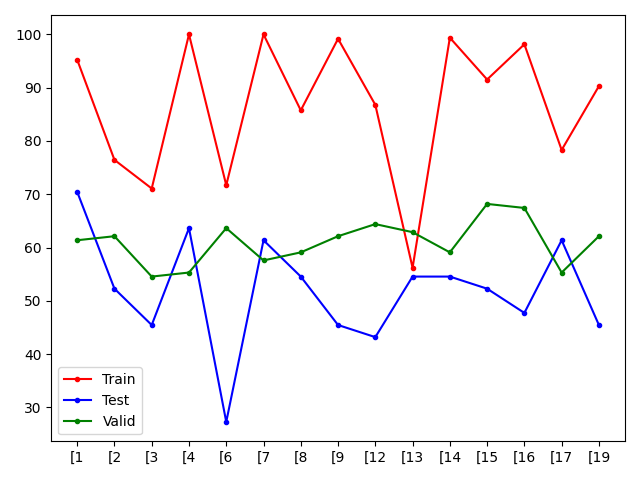
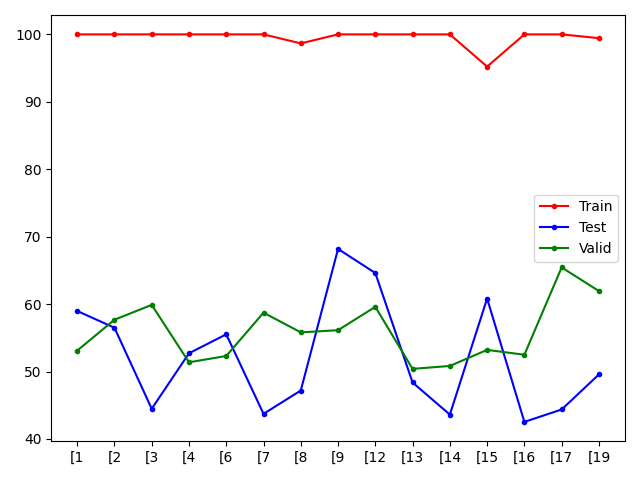
Validation check added

diff --git a/models/cnn_model.py b/models/cnn_model.py
@@ -7,43 +7,41 @@ class Net(nn.Module):
     def __init__(self, config, kernel_size):
         super(Net, self).__init__()
         k1 = kernel_size
-        self.conv_layer1 = nn.Sequential(nn.Conv2d(config.n_channels, 60, kernel_size=(k1,kernel_size)),
+        self.conv_layer1 = nn.Sequential(nn.Conv2d(1, 60, kernel_size=(k1,kernel_size)),
                            nn.ReLU(inplace=True))
-        h_shape = config.freq_cut
-        w_shape = config.nTimeBins
+#        h_shape = config.freq_cut
+ #       w_shape = config.nTimeBins
 
-#        h_shape = config.window_len
- #       w_shape = config.n_channels
+        h_shape = config.window_len
+        w_shape = config.n_channels
         h_shape = (h_shape-k1)+1
         w_shape = (w_shape-kernel_size)+1
 #        print(f'H: {h_shape} W:{w_shape}')
 
         self.conv_layer2 = nn.Sequential(nn.Conv2d(60, 80, kernel_size=(k1,kernel_size)),
                            nn.ReLU(inplace=True))
-        h_shape = (h_shape-k1)//1 + 1
-        w_shape = (w_shape-kernel_size)//1 + 1
+#nn.AvgPool2d(2))
+        h_shape = ((h_shape-k1) + 1)
+        w_shape = ((w_shape-kernel_size) + 1)
 #        print(f'H: {h_shape} W:{w_shape}')
 
-        self.conv_layer3 = nn.Sequential(nn.Conv2d(80, 120, kernel_size=(k1,kernel_size)),
+        self.conv_layer3 = nn.Sequential(nn.Conv2d(80, 80, kernel_size=(k1,kernel_size)),
                            nn.ReLU(inplace=True))
-        h_shape = (h_shape-k1) + 1
-        w_shape = (w_shape-kernel_size) + 1
-#        print(f'H: {h_shape} W:{w_shape}')
+#                           nn.Dropout(0.2), nn.AvgPool2d(2))
+        h_shape = ((h_shape-k1) + 1)
+        w_shape = ((w_shape-kernel_size) + 1)
 
-        self.conv_layer4 = nn.Sequential(nn.Conv2d(120, 120, kernel_size=(k1,kernel_size)),
-                           nn.BatchNorm2d(120),
+        self.conv_layer4 = nn.Sequential(nn.Conv2d(80, 80, kernel_size=(k1,kernel_size)),
+                           nn.BatchNorm2d(80),
                            nn.ReLU(inplace=True))
-        h_shape = (h_shape-k1) + 1
-        w_shape = (w_shape-kernel_size) + 1
-#        print(f'H: {h_shape} W:{w_shape}')
+#                           nn.Dropout(0.2),nn.AvgPool2d(2))
+        h_shape = ((h_shape-k1) + 1)
+        w_shape = ((w_shape-kernel_size) + 1)
 
-
-
-        self.fc1 = nn.Linear(120 * h_shape * w_shape, 40)
-        self.fc2 = nn.Linear(40, config.n_classes)
+        self.fc1 = nn.Linear(80 * h_shape * w_shape, config.n_classes)
+#        self.fc2 = nn.Linear(40, config.n_classes)
         self.relu    = nn.ReLU(inplace=True)
-        self.sigmoid = nn.Sigmoid()
-        self.dropout = nn.Dropout(0.2)
+        self.lsf     = nn.LogSoftmax(dim=1)
 
     def forward(self, x):
         x   = self.conv_layer1(x)
@@ -51,10 +49,6 @@ class Net(nn.Module):
         x   = self.conv_layer3(x)
         x   = self.conv_layer4(x)
         x   = x.reshape(x.shape[0],x.shape[1]*x.shape[2]*x.shape[3])
-#        print(x.shape)
- #       input('enter')
-        x     = self.relu(self.fc1(x))
-#        out   = self.sigmoid(self.fc2(x))
-        out = F.log_softmax(self.fc2(x), dim=1)
+        out = self.lsf(self.fc1(x))
         return out
 

diff --git a/utils/utils.py b/utils/utils.py
@@ -31,14 +31,15 @@ def test(model, dataloader, config):
     model.eval()
     correct = 0
     total = 0
-    gauss_obj = GaussianFourierFeatureTransform(1, config.mapping_size, 10)
+    if config.apply_gauss:
+       gauss_obj = GaussianFourierFeatureTransform(1, config.mapping_size, 10)
     with torch.no_grad():
         for batch_idx, (inputs, targets, subjects) in enumerate(dataloader):
             inputs, targets = inputs.to(config.device), targets.to(config.device)
             if config.apply_gauss:
                  inputs = gauss_obj(inputs.reshape(-1,1,config.window_len,config.n_channels))
-#            else:
- #                inputs = inputs.permute(0,2,1)
+            else:
+                 inputs = inputs.permute(0,2,1)
 #                 inputs = inputs.reshape(-1,1,config.window_len,config.n_channels)
 
             if config.model_type == 'capsnet':
@@ -115,20 +116,22 @@ def model_loader(config, kernel_size):
     elif config.model_type == 'brainC':
        return ShallowFBCSPNet(in_chans=config.n_channels,n_classes=config.n_classes,input_window_samples=config.window_len,final_conv_length='auto')
 
-def data_loader(batch_size, num_workers, stft):
+def data_loader(batch_size, num_workers, stft, valid_check):
     if stft:
        name_str = '2d'
     else:
        name_str = '1d'
     trainset = HDF5Dataset('./data/train_'+name_str+'.h5')
-    validset = HDF5Dataset('./data/valid_'+name_str+'.h5')
+    if valid_check:
+       validset = HDF5Dataset('./data/valid_'+name_str+'.h5')
     testset  = HDF5Dataset('./data/test_'+name_str+'.h5')
 
     trainloader = torch.utils.data.DataLoader(trainset, batch_size=batch_size, shuffle=True,  num_workers=num_workers, pin_memory=False)
-    validloader = torch.utils.data.DataLoader(validset, batch_size=batch_size, shuffle=True, num_workers=num_workers, pin_memory=False)
     testloader  = torch.utils.data.DataLoader(testset,  batch_size=batch_size, shuffle=True, num_workers=num_workers, pin_memory=False)
-
-    return trainloader, validloader, testloader
+    if valid_check:
+       validloader = torch.utils.data.DataLoader(validset, batch_size=batch_size, shuffle=True, num_workers=num_workers, pin_memory=False)
+       return trainloader, validloader, testloader
+    return trainloader, None, testloader
 
 
 def progress_bar(current, total, msg=None):

diff --git a/main.py b/main.py
@@ -24,11 +24,14 @@ parser.add_argument('--stft', action='store_true', default=False, help='Apply ST
 args = parser.parse_args()
 
 best_acc = 0
-trainloader, validloader, _ = data_loader(args.batch_size, args.num_workers, args.stft)
 config = Config(args.model_type)
 config.device = args.device
 config.stft=args.stft
-gauss_obj = GaussianFourierFeatureTransform(1, config.mapping_size, 10)
+
+trainloader, validloader, _ = data_loader(args.batch_size, args.num_workers, args.stft, config.apply_valid_set)
+
+if config.apply_gauss:
+   gauss_obj = GaussianFourierFeatureTransform(1, config.mapping_size, 10)
 net = model_loader(config,args.kernel_size)
 #net.load_state_dict(torch.load('./checkpoint/Net.pth',map_location=args.device))
 #net = torch.nn.DataParallel(net)
@@ -67,8 +70,8 @@ def train():
         inputs, targets = inputs.to(args.device), targets.to(args.device)
         if config.apply_gauss:
            inputs = gauss_obj(inputs.reshape(-1,1,config.window_len,config.n_channels))
-#        if config.model_type == 'eegnet':
- #          inputs = inputs.permute(0,2,1)
+        if config.model_type == 'eegnet':
+           inputs = inputs.permute(0,2,1)
 #           inputs = inputs.unsqueeze(1)
  #          inputs = inputs.reshape(-1,1,config.window_len,config.n_channels)
         optimizer.zero_grad()
@@ -94,12 +97,14 @@ def train():
 
         progress_bar(batch_idx, len(trainloader), 'Loss: %.3f | Acc: %.3f%% (%d/%d)'
                % (train_loss/(batch_idx+1), 100.*correct/total, correct, total))
+    return (correct/total)
 
 for epoch in range(1,args.n_epochs):
     print('\nEpoch: {}/{}'.format(epoch,args.n_epochs))
-    train()
+    clean_acc = train()
 
-    clean_acc,_ = test(net, validloader, config)
+    if config.apply_valid_set:
+       clean_acc,_ = test(net, validloader, config)
     if epoch == 1:
        best_acc = clean_acc
     if (clean_acc >= best_acc):

diff --git a/test_performance.py b/test_performance.py
@@ -14,9 +14,9 @@ parser.add_argument('--stft', action='store_true', default=False, help='Apply ST
 args = parser.parse_args()
 
 best_acc = 0
-trainloader, validloader, testloader = data_loader(args.batch_size, args.num_workers, args.stft)
 
 config = Config(args.model_type)
+trainloader, validloader, testloader = data_loader(args.batch_size, args.num_workers, args.stft, config.apply_valid_set)
 config.device=args.device
 net = model_loader(config, args.kernel_size)
 net = net.to(args.device)
@@ -32,14 +32,18 @@ cudnn.benchmark = True
 print("Test Performance:")
 test_acc, target_test  = test(net, testloader, config)
 
-print("Validation Performance:")
-valid_acc, target_valid = test(net, validloader, config)
+if config.apply_valid_set:
+   print("Validation Performance:")
+   valid_acc, target_valid = test(net, validloader, config)
 
 print("Train Performance:")
 train_acc, _ = test(net, trainloader, config)
 
 header_name = 'Name,Acc,Target'
-data = [['Train', train_acc, 0], ['Test', test_acc, target_test], ['Valid', valid_acc, target_valid] ]
+if config.apply_valid_set:
+   data = [['Train', train_acc, 0], ['Test', test_acc, target_test], ['Valid', valid_acc, target_valid] ]
+else:
+   data = [['Train', train_acc, 0], ['Test', test_acc, target_test] ]
 
 np.savetxt("./out/test_results_"+str(target_test[0])+".csv", data, delimiter=",", header=header_name, comments='', fmt="%s")
 

diff --git a/plot_test_acc.py b/plot_test_acc.py
@@ -21,7 +21,8 @@ for train_idx in config.all_subjects:
            data = list(csv.reader(f))
            train_acc[data[2][2][:-2]] = float(data[1][1])
            test_acc[data[2][2][:-2]]  = float(data[2][1])
-           valid_acc[data[2][2][:-2]] = float(data[3][1])
+           if config.apply_valid_set:
+              valid_acc[data[2][2][:-2]] = float(data[3][1])
 
 print(array([train_acc[k] for k in train_acc]).mean())
 print(array([train_acc[k] for k in train_acc]).std())
@@ -29,14 +30,16 @@ print(array([train_acc[k] for k in train_acc]).std())
 print(array([test_acc[k] for k in test_acc]).mean())
 print(array([test_acc[k] for k in test_acc]).std())
 
-print(array([valid_acc[k] for k in valid_acc]).mean())
-print(array([valid_acc[k] for k in valid_acc]).std())
+if config.apply_valid_set:
+   print(array([valid_acc[k] for k in valid_acc]).mean())
+   print(array([valid_acc[k] for k in valid_acc]).std())
 
 
 plt.figure(0)
 plt.plot(list(train_acc.keys()), list(train_acc.values()), '-r.', label='Train')
 plt.plot(list(test_acc.keys()),  list(test_acc.values()),  '-b.', label='Test')
-plt.plot(list(valid_acc.keys()), list(valid_acc.values()), '-g.', label='Valid')
+if config.apply_valid_set:
+   plt.plot(list(valid_acc.keys()), list(valid_acc.values()), '-g.', label='Valid')
 plt.legend()
 plt.tight_layout()
 plt.savefig('./Figs/Accs.png')

diff --git a/mat2h5Conversion.py b/mat2h5Conversion.py
@@ -12,17 +12,20 @@ args = parser.parse_args()
 config = Config()
 config.test_subjects  = np.array([int(args.target_test)])
 config.train_subjects = np.setdiff1d(config.all_subjects, config.test_subjects)
-
-valid_sub = np.random.choice(config.train_subjects,3,replace=False)
-config.valid_subjects = np.array(valid_sub)
-config.train_subjects = np.setdiff1d(config.train_subjects, config.valid_subjects)
-
 all_trials   =  np.array(range(0,config.n_trial))
 test_trials  = all_trials
-valid_trials = all_trials
+
+if config.apply_valid_set:
+   valid_sub = np.random.choice(config.train_subjects,3,replace=False)
+   config.valid_subjects = np.array(valid_sub)
+   config.train_subjects = np.setdiff1d(config.train_subjects, config.valid_subjects)
+   valid_trials = all_trials
+   print(f'Valid Subjects: {config.valid_subjects}')
+   data_sets = ['train', 'test', 'valid']
+else:
+   data_sets = ['train', 'test']
 
 print(f'Test Subjects:  {config.test_subjects}')
-print(f'Valid Subjects: {config.valid_subjects}')
 print(f'Train Subjects: {config.train_subjects}')
 
 path = config.file_path + "SF_Img_MLdata.mat"
@@ -70,6 +73,7 @@ def generate_data(data_type):
                     u += 1
     f_data.close()
 
-for dataSet in ['train', 'test', 'valid']:
+
+for dataSet in data_sets:
     generate_data(dataSet)
 

diff --git a/utils/config.py b/utils/config.py
@@ -11,26 +11,27 @@ class Config:
           self.file_path    = './data/'  # Path to save the h5 files
           self.n_classes    = 2
           self.preprocess_normalize = False
-          self.preprocess_scale = False
+          self.preprocess_scale = True
           self.device       = 'cuda:0'
+          self.apply_valid_set = False
 
           # Gaussian Transform
           self.apply_gauss = False
           self.mapping_size = 3
 
           # Each segement
-          self.window_len  = 1800
+          self.window_len  = 1600
           self.window_inc  = 10
           self.n_windows   = ((self.n_timepoints-self.window_len)// self.window_inc+1)
 
           # STFT Hyper-parameters
           self.stft        = False
           self.fs          = 1000
-          self.nperseg     = 1600
-          self.noverlap    = 1560
-          self.freq_cut    = 51
+          self.nperseg     = 500
+          self.noverlap    = 485
+          self.freq_cut    = 101
 #          self.nTimeBins   = 2*(self.window_len - self.nperseg) // (self.nperseg - self.noverlap) + 1
-          self.nTimeBins   = 51
+          self.nTimeBins   = 108
     
           # Bad Subjects: [0,5,10,11,18]
           self.train_subjects  = []
